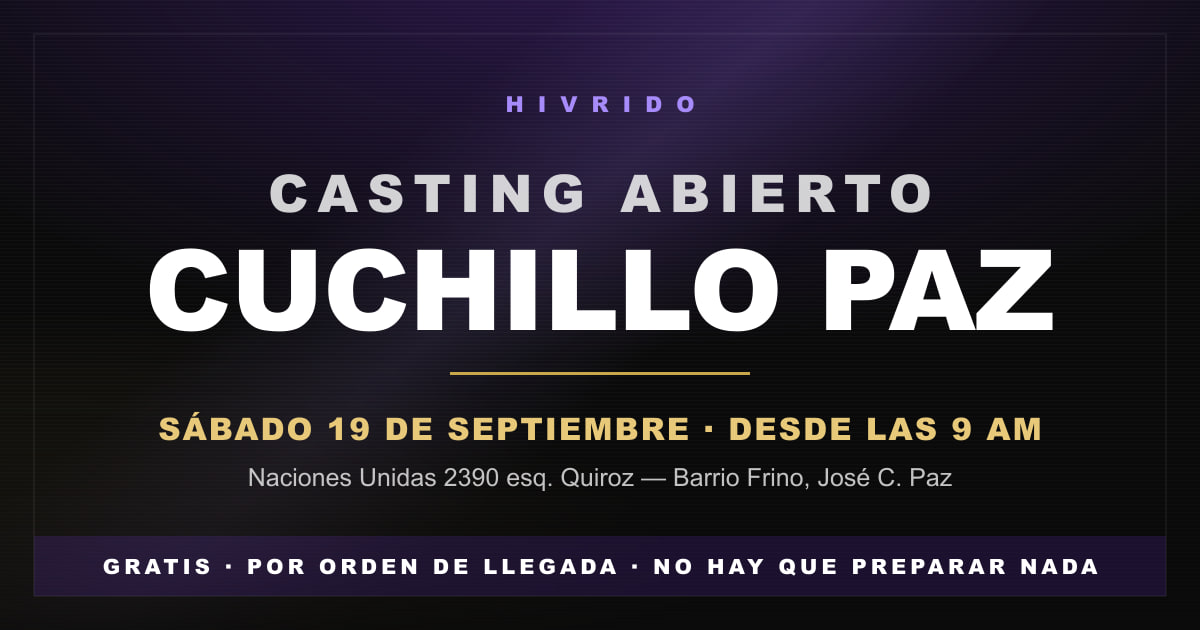
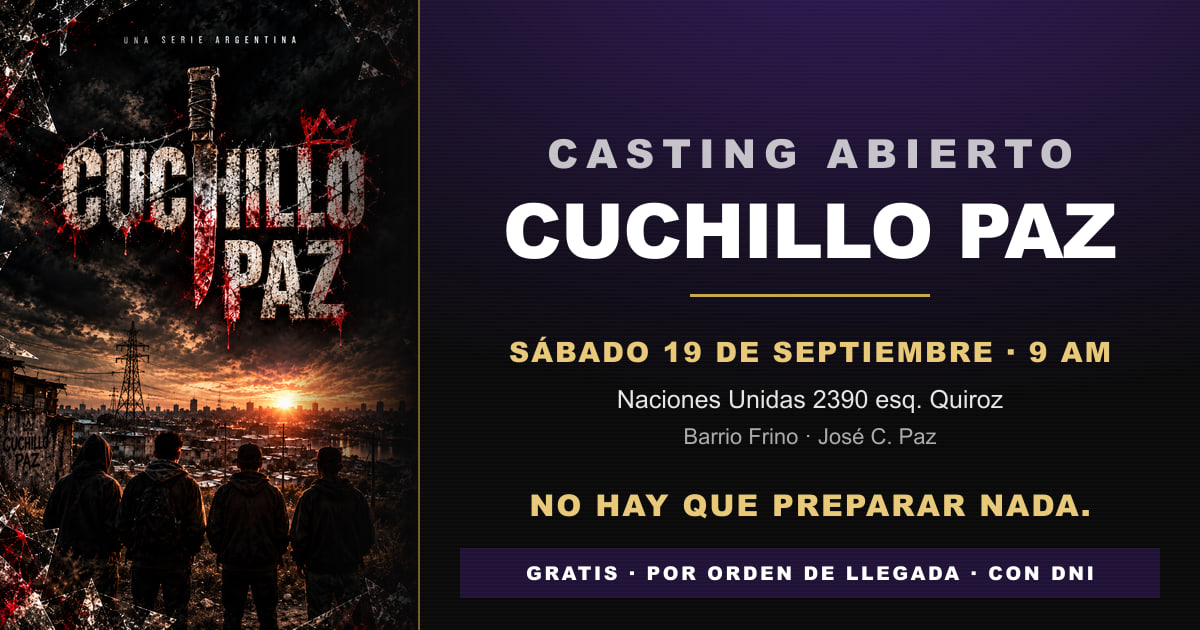
feat: el casting muestra el afiche real de Cuchillo Paz
La previsualización de WhatsApp pasa a ser el arte de la serie con los datos
al lado, en vez de la tarjeta tipográfica provisoria: el afiche entra entero
en la franja izquierda —misma proporción, sin recortar a nadie— y la derecha
sostiene fecha, dirección y el aviso de que es gratis.

El afiche también aparece en la página, debajo del hero: carga diferida y con
el hueco reservado, así que contesta "¿qué es esto?" sin tocar el LCP ni
mover nada al aparecer. Dos variantes webp para el srcset, 51 kB la que baja
un teléfono, contra los 2,7 MB del PNG original.

diff --git a/app/casting/page.tsx b/app/casting/page.tsx
@@ -11,6 +11,7 @@ import {
   IconoWhatsApp,
 } from "./Iconos";
 import {
+  ARTE,
   AUDICION_VIDEO_URL,
   COMO_LLEGAR,
   CONTACTO,
@@ -183,6 +184,39 @@ export default function CastingPage() {
               <IconoPin />
               Ver cómo llegar
             </a>
+          </div>
+        </section>
+
+        {/* ── El arte ──────────────────────────────────────────────────
+            <img> a secas y no next/image: el proyecto corre con
+            `images.unoptimized`, así que el componente no optimizaría nada y
+            solo sumaría JS. Las dos variantes ya vienen dimensionadas desde
+            scripts/build-casting-assets.mjs; `width` y `height` reservan el
+            hueco antes de que baje, así nada salta al aparecer. */}
+        <section className="cst-seccion cst-arte" aria-labelledby="t-arte">
+          <div className="cst-wrap cst-arte-inner">
+            {/* eslint-disable-next-line @next/next/no-img-element --
+                next/image no optimiza nada en este proyecto (`unoptimized` en
+                next.config.ts) y con esa bandera tampoco arma el srcset: daría
+                una sola variante y JS de más. Las dos webp ya vienen del
+                script de assets. */}
+            <img
+              className="cst-arte-poster"
+              src={ARTE.poster400}
+              srcSet={`${ARTE.poster400} 400w, ${ARTE.poster800} 800w`}
+              sizes="(min-width: 720px) 300px, min(72vw, 300px)"
+              width={400}
+              height={600}
+              alt={ARTE.alt}
+              loading="lazy"
+              decoding="async"
+            />
+            <div className="cst-arte-copy">
+              <h2 className="cst-h2 cst-h2-chico" id="t-arte">
+                {ARTE.titulo}
+              </h2>
+              <p className="cst-arte-texto">{ARTE.texto}</p>
+            </div>
           </div>
         </section>
 

diff --git a/app/casting/casting.css b/app/casting/casting.css
@@ -351,6 +351,38 @@
   color: var(--cst-tenue) !important;
 }
 
+/* ── El arte ──────────────────────────────────────────────────────────── */
+
+.cst-arte-inner {
+  display: flex;
+  flex-direction: column;
+  align-items: center;
+  gap: 22px;
+  text-align: center;
+}
+
+/* El afiche entero, sin recortar: la composición es el grupo mirando el
+   conurbano y un recorte la deshace. El borde y la sombra lo despegan del
+   fondo, que es casi del mismo negro. */
+.cst-arte-poster {
+  display: block;
+  width: min(72vw, 300px);
+  height: auto;
+  border: 1px solid var(--cst-linea);
+  border-radius: 12px;
+  box-shadow: 0 18px 40px rgba(0, 0, 0, 0.6);
+}
+
+.cst-arte-copy {
+  max-width: 44ch;
+}
+
+.cst-arte-texto {
+  font-size: 15.5px;
+  color: var(--cst-suave) !important;
+  text-align: center !important;
+}
+
 /* ── 2 · Datos clave ──────────────────────────────────────────────────── */
 
 .cst-datos {
@@ -789,6 +821,23 @@
   .cst-btn-pleno {
     width: auto;
     min-width: 280px;
+  }
+
+  /* Con aire de sobra, el afiche se pone al lado del texto en vez de encima. */
+  .cst-arte-inner {
+    flex-direction: row;
+    align-items: center;
+    gap: 36px;
+    text-align: left;
+  }
+
+  .cst-arte-poster {
+    flex-shrink: 0;
+    width: 300px;
+  }
+
+  .cst-arte-texto {
+    text-align: left !important;
   }
 
   .cst-datos {

diff --git a/app/casting/contenido.ts b/app/casting/contenido.ts
@@ -60,6 +60,22 @@ export const HERO = {
     "Venís, te anotás, charlás un minuto e improvisás dos. Nada más que eso.",
 } as const;
 
+/* ── El arte ────────────────────────────────────────────────────────── */
+
+/* El afiche va debajo del hero, no dentro: es lo que contesta "¿qué es esto?"
+   apenas después de "¿cuándo y dónde?", y al quedar bajo el pliegue carga
+   diferido sin pelearle el LCP al título. */
+export const ARTE = {
+  titulo: "La serie",
+  texto:
+    "Buscamos caras nuevas para la primera temporada. Si nunca actuaste, mejor: el casting está pensado para eso.",
+  /* El alt describe la escena, no repite el título: quien usa lector de
+     pantalla ya escuchó el nombre de la serie tres veces más arriba. */
+  alt: "Afiche de Cuchillo Paz: cuatro jóvenes de espaldas, en una loma, miran el conurbano al atardecer.",
+  poster400: "/images/casting/cuchillo-paz-poster-400.webp",
+  poster800: "/images/casting/cuchillo-paz-poster-800.webp",
+} as const;
+
 /* ── 2 · Datos clave ────────────────────────────────────────────────────── */
 
 export type Icono = "fila" | "dni" | "gratis" | "menores" | "camara";
